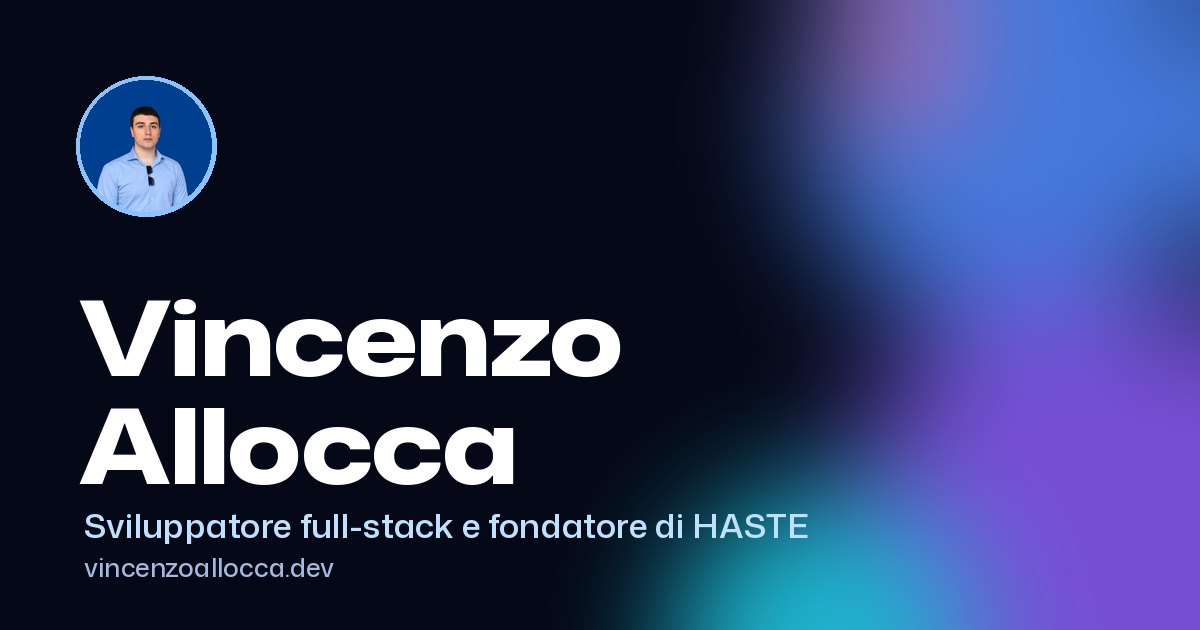
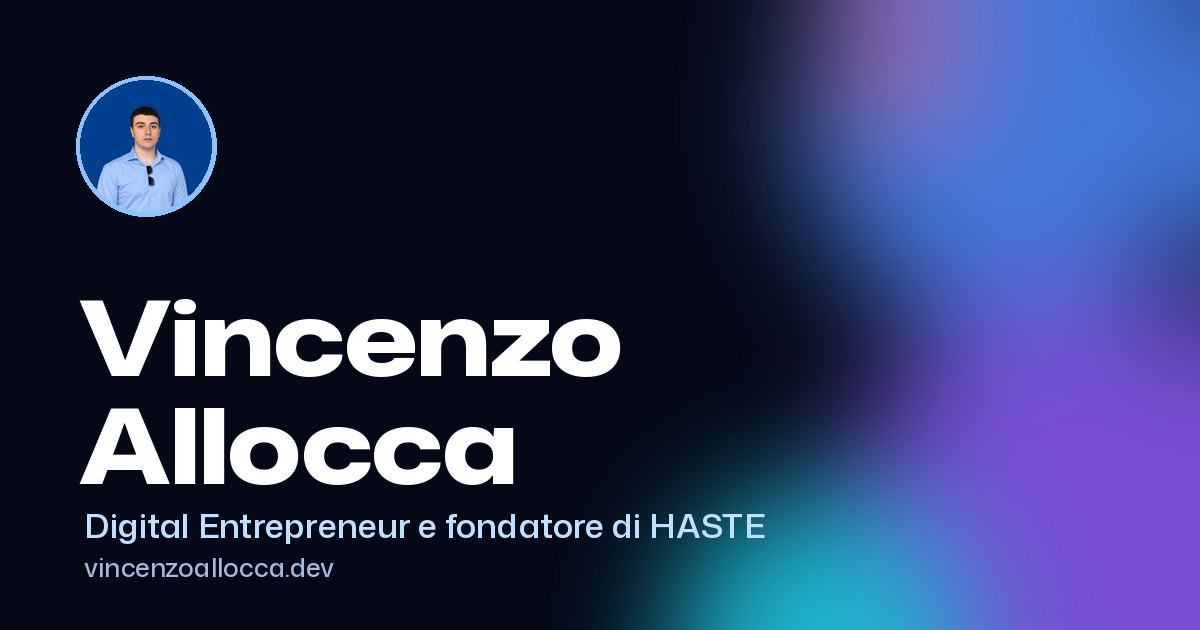
content: ruolo principale Digital Entrepreneur
Claude-Session: https://claude.ai/code/session_01LukW1ck2Qt1wta9QSppDbP

Changed region(s): [[0.0617, 0.8143, 0.6783, 0.8746]]

diff --git a/index.html b/index.html
@@ -3,8 +3,8 @@
 <head>
 <meta charset="UTF-8">
 <meta name="viewport" content="width=device-width, initial-scale=1, viewport-fit=cover">
-<title>Vincenzo Allocca – Sviluppatore web e fondatore di HASTE</title>
-<meta name="description" content="Vincenzo Allocca, sviluppatore full-stack e studente di Ingegneria Informatica alla Federico II di Napoli. Fondatore del collettivo culturale HASTE.">
+<title>Vincenzo Allocca – Digital Entrepreneur e fondatore di HASTE</title>
+<meta name="description" content="Vincenzo Allocca, Digital Entrepreneur e sviluppatore full-stack, studente di Ingegneria Informatica alla Federico II. Fondatore del collettivo HASTE.">
 <meta name="theme-color" content="#050816">
 <meta name="color-scheme" content="dark">
 <meta name="robots" content="index,follow,max-image-preview:large,max-snippet:-1">
@@ -18,19 +18,19 @@
 <meta property="profile:last_name" content="Allocca">
 <meta property="og:locale" content="it_IT">
 <meta property="og:site_name" content="Vincenzo Allocca">
-<meta property="og:title" content="Vincenzo Allocca – Sviluppatore web e fondatore di HASTE">
+<meta property="og:title" content="Vincenzo Allocca – Digital Entrepreneur e fondatore di HASTE">
 <meta property="og:description" content="Studente di Ingegneria Informatica alla Federico II, sviluppo software per il web e ho fondato HASTE, collettivo culturale indipendente nato in Campania.">
 <meta property="og:url" content="https://vincenzoallocca.dev/">
 <meta property="og:image" content="https://vincenzoallocca.dev/assets/og-image.jpg">
 <meta property="og:image:type" content="image/jpeg">
 <meta property="og:image:width" content="1200">
 <meta property="og:image:height" content="630">
-<meta property="og:image:alt" content="Vincenzo Allocca, sviluppatore full-stack e fondatore di HASTE">
+<meta property="og:image:alt" content="Vincenzo Allocca, Digital Entrepreneur e fondatore di HASTE">
 <meta name="twitter:card" content="summary_large_image">
-<meta name="twitter:title" content="Vincenzo Allocca – Sviluppatore web e fondatore di HASTE">
-<meta name="twitter:description" content="Studente di Ingegneria Informatica alla Federico II, sviluppatore full-stack e fondatore di HASTE.">
+<meta name="twitter:title" content="Vincenzo Allocca – Digital Entrepreneur e fondatore di HASTE">
+<meta name="twitter:description" content="Digital Entrepreneur, studente di Ingegneria Informatica alla Federico II e fondatore di HASTE.">
 <meta name="twitter:image" content="https://vincenzoallocca.dev/assets/og-image.jpg">
-<meta name="twitter:image:alt" content="Vincenzo Allocca, sviluppatore full-stack e fondatore di HASTE">
+<meta name="twitter:image:alt" content="Vincenzo Allocca, Digital Entrepreneur e fondatore di HASTE">
 <script type="application/ld+json">
 {
   "@context": "https://schema.org",
@@ -47,7 +47,7 @@
       "@type": "ProfilePage",
       "@id": "https://vincenzoallocca.dev/#profilepage",
       "url": "https://vincenzoallocca.dev/",
-      "name": "Vincenzo Allocca – Sviluppatore web e fondatore di HASTE",
+      "name": "Vincenzo Allocca – Digital Entrepreneur e fondatore di HASTE",
       "inLanguage": "it-IT",
       "dateModified": "2026-11-18",
       "isPartOf": { "@id": "https://vincenzoallocca.dev/#website" },
@@ -64,8 +64,8 @@
       "url": "https://vincenzoallocca.dev/",
       "image": "https://vincenzoallocca.dev/assets/profilo.webp",
       "email": "mailto:vincenzoallocca07@gmail.com",
-      "jobTitle": "Sviluppatore full-stack",
-      "description": "Sviluppatore full-stack, studente di Ingegneria Informatica all'Università degli Studi di Napoli Federico II e fondatore del collettivo culturale HASTE.",
+      "jobTitle": "Digital Entrepreneur",
+      "description": "Digital Entrepreneur e sviluppatore full-stack, studente di Ingegneria Informatica all'Università degli Studi di Napoli Federico II e fondatore del collettivo culturale HASTE.",
       "knowsAbout": ["Sviluppo web full-stack", "Backend engineering", "Cloudflare Workers", "Cloudflare D1", "Cloudflare R2", "C", "C++", "PHP", "JavaScript", "TypeScript", "SQL", "Git", "Linux", "Intelligenza artificiale", "Automazione"],
       "affiliation": { "@type": "CollegeOrUniversity", "name": "Università degli Studi di Napoli Federico II", "url": "https://www.unina.it/" },
       "alumniOf": { "@type": "HighSchool", "name": "ITIS Ettore Majorana" },
@@ -480,7 +480,7 @@ a.tile:active{background-color:rgba(60,80,170,.55)}
   <header class="glass side">
     <div class="avatar"><img src="assets/profilo.webp" alt="Foto profilo di Vincenzo Allocca" width="96" height="96" fetchpriority="high" decoding="async"></div>
     <p class="nick">@vincenzoallocca</p>
-    <p class="quote">Sviluppatore full-stack, fondatore di HASTE</p>
+    <p class="quote">Digital Entrepreneur, fondatore di HASTE</p>
     <hr>
     <nav aria-label="Menu principale">
       <ul>
@@ -505,7 +505,7 @@ a.tile:active{background-color:rgba(60,80,170,.55)}
       <div class="panel" id="home" data-title="Home" tabindex="-1">
         <div class="intro">
           <h1><span>Vincenzo</span> <span>Allocca</span></h1>
-          <p class="sub">Sviluppatore full-stack e studente di Ingegneria Informatica</p>
+          <p class="sub">Digital Entrepreneur e studente di Ingegneria Informatica</p>
           <p class="lead">Studio alla Federico II di Napoli e scrivo software per il web, soprattutto backend e infrastruttura su Cloudflare. Ho fondato HASTE, un collettivo culturale indipendente nato in Campania.</p>
         </div>
 
@@ -544,7 +544,7 @@ a.tile:active{background-color:rgba(60,80,170,.55)}
       <div class="panel" id="about" data-title="Chi sono" tabindex="-1">
         <section class="card" aria-labelledby="abt">
           <h2 id="abt" class="panel-h1">Chi sono</h2>
-          <p>Sono <b>Vincenzo Allocca</b>, sviluppatore full-stack e studente di Ingegneria Informatica all'Universit&agrave; degli Studi di Napoli Federico II. Mi interessano la progettazione del software, le infrastrutture cloud e l'uso pratico dell'intelligenza artificiale.</p>
+          <p>Sono <b>Vincenzo Allocca</b>, Digital Entrepreneur e sviluppatore full-stack, studente di Ingegneria Informatica all'Universit&agrave; degli Studi di Napoli Federico II. Mi interessano la progettazione del software, le infrastrutture cloud e l'uso pratico dell'intelligenza artificiale.</p>
           <p>Fuori dal codice mi occupo di impegno civico. Ho fondato <b>HASTE</b> e ne faccio parte della direzione: con il collettivo realizziamo progetti editoriali indipendenti e percorsi di partecipazione.</p>
           <div class="actions">
             <a class="btn" href="https://github.com/vincenzoallocca" target="_blank" rel="noopener me">Apri il profilo GitHub</a>
@@ -659,7 +659,7 @@ a.tile:active{background-color:rgba(60,80,170,.55)}
       }
     }
     dispatchEvent(new CustomEvent('sectionchange',{detail:ni}));
-    document.title=name==='home'?'Vincenzo Allocca – Sviluppatore web e fondatore di HASTE':(cur?cur.getAttribute('data-title'):name)+' | '+base;
+    document.title=name==='home'?'Vincenzo Allocca – Digital Entrepreneur e fondatore di HASTE':(cur?cur.getAttribute('data-title'):name)+' | '+base;
     if(user&&scroller)scroller.scrollTop=0;
     if(user&&matchMedia('(max-width:900px)').matches){
       var top=main.getBoundingClientRect().top;
